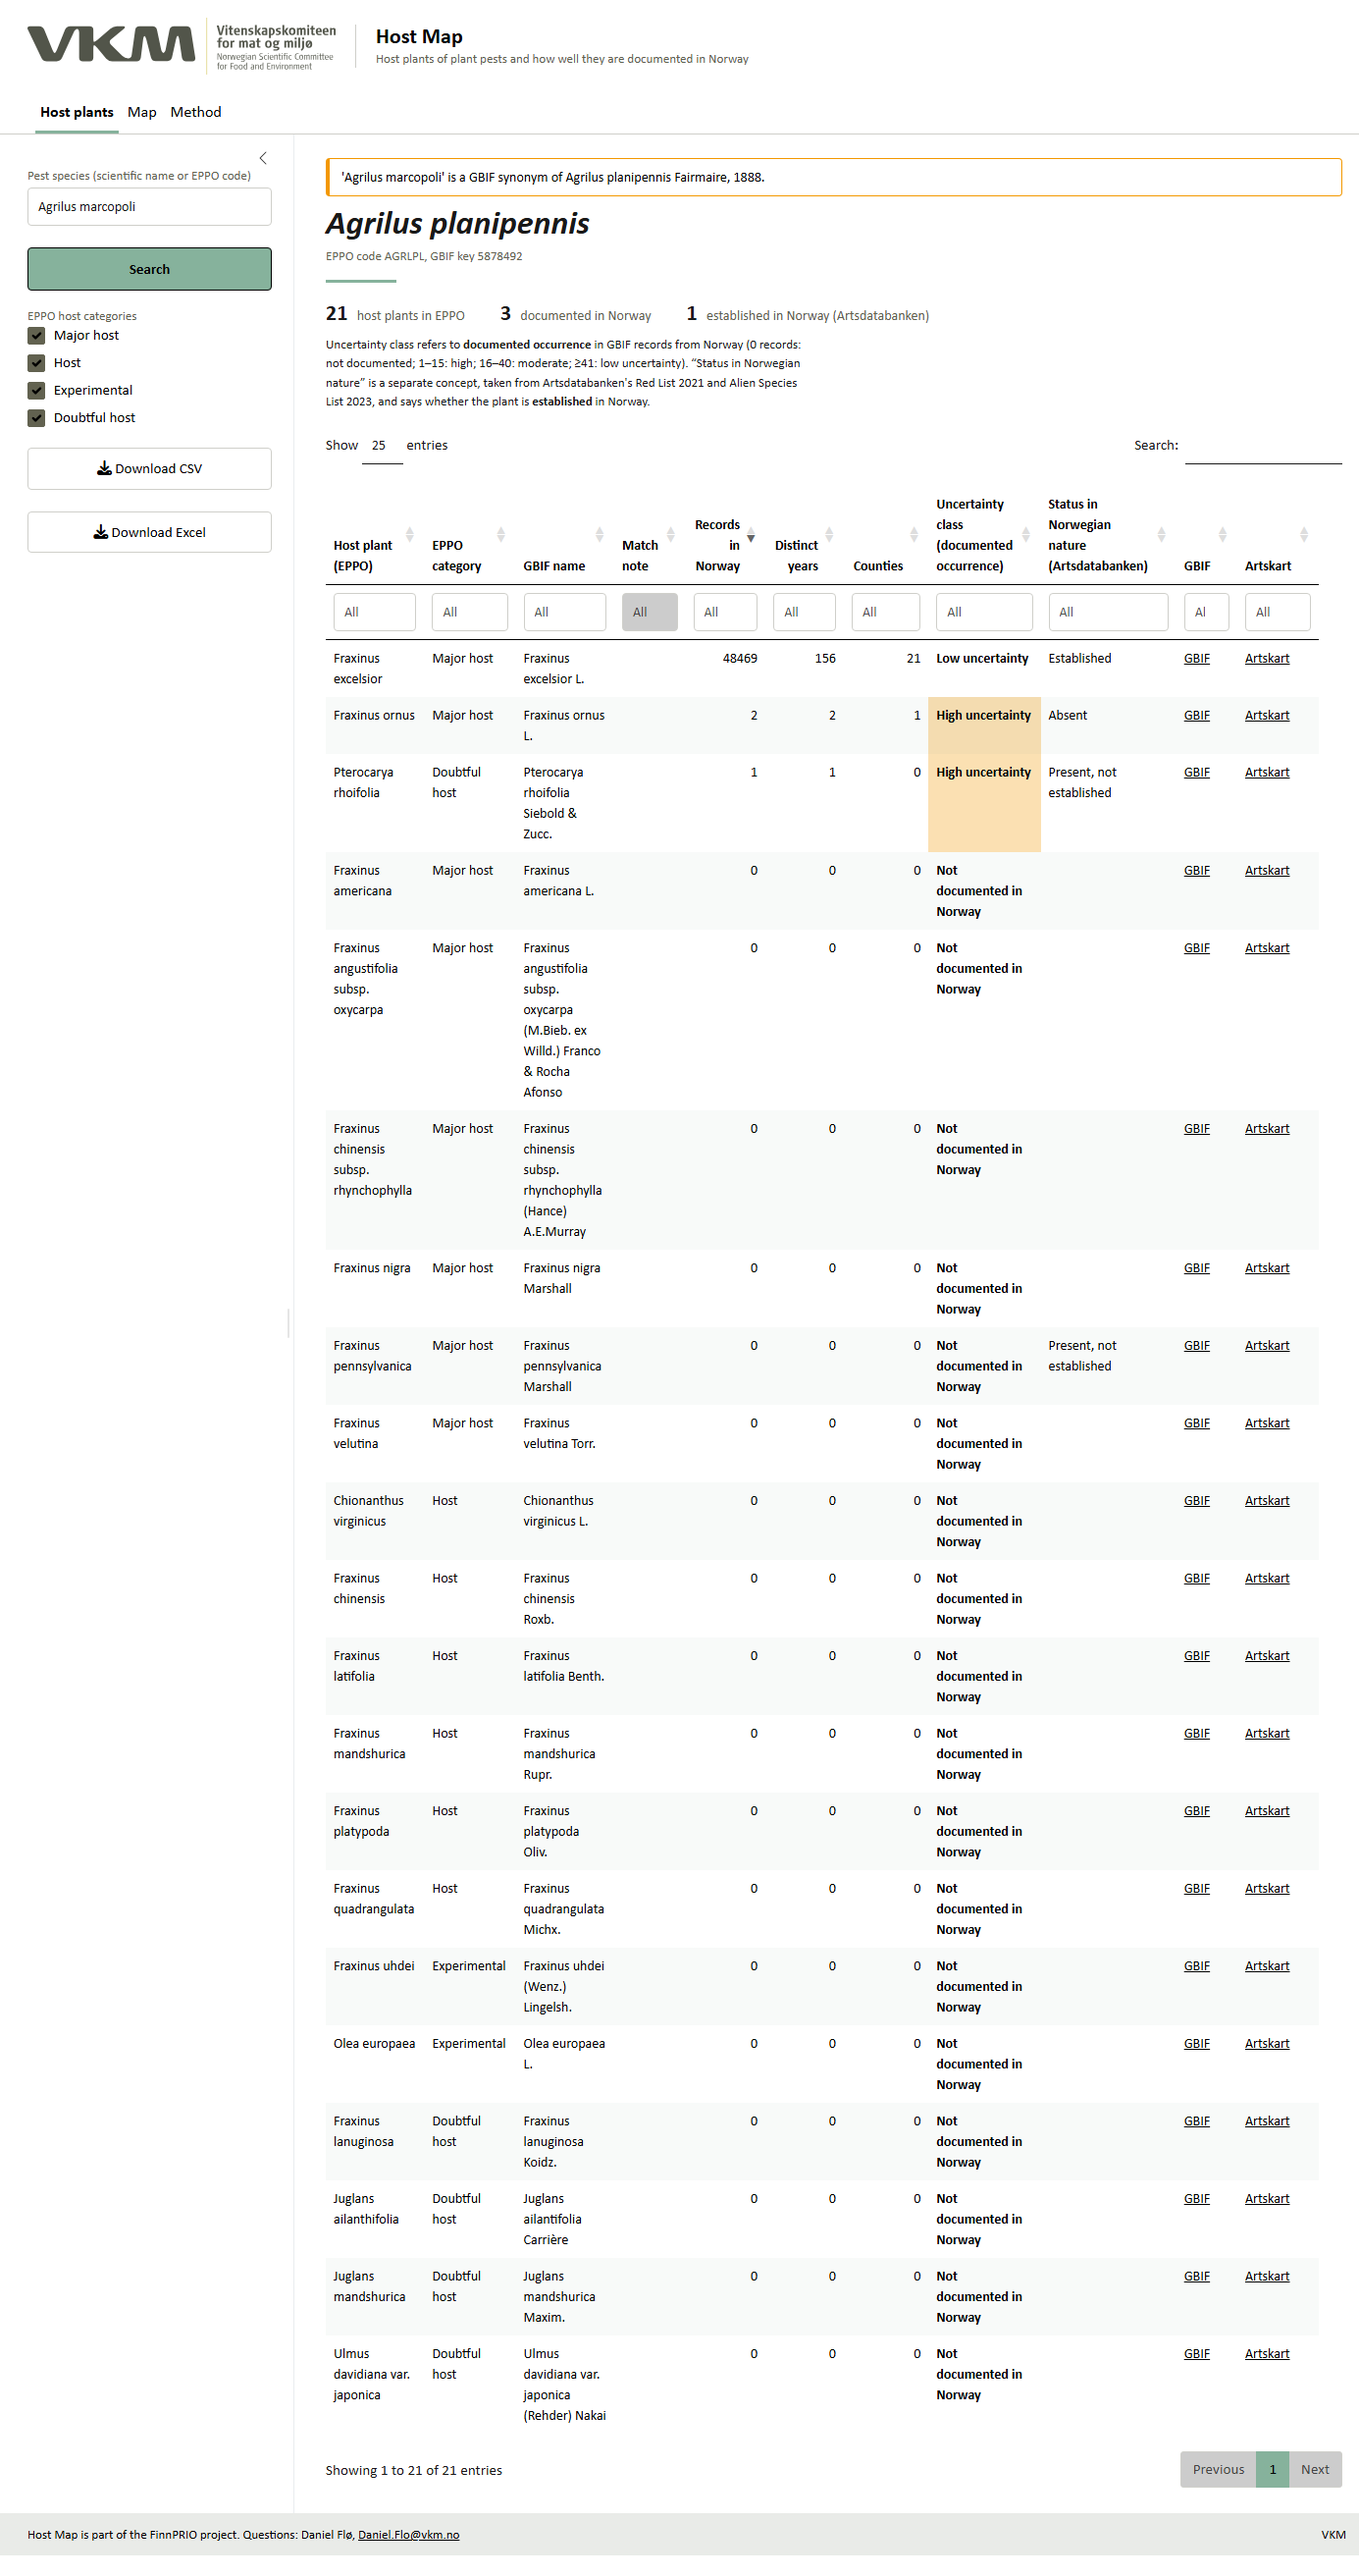
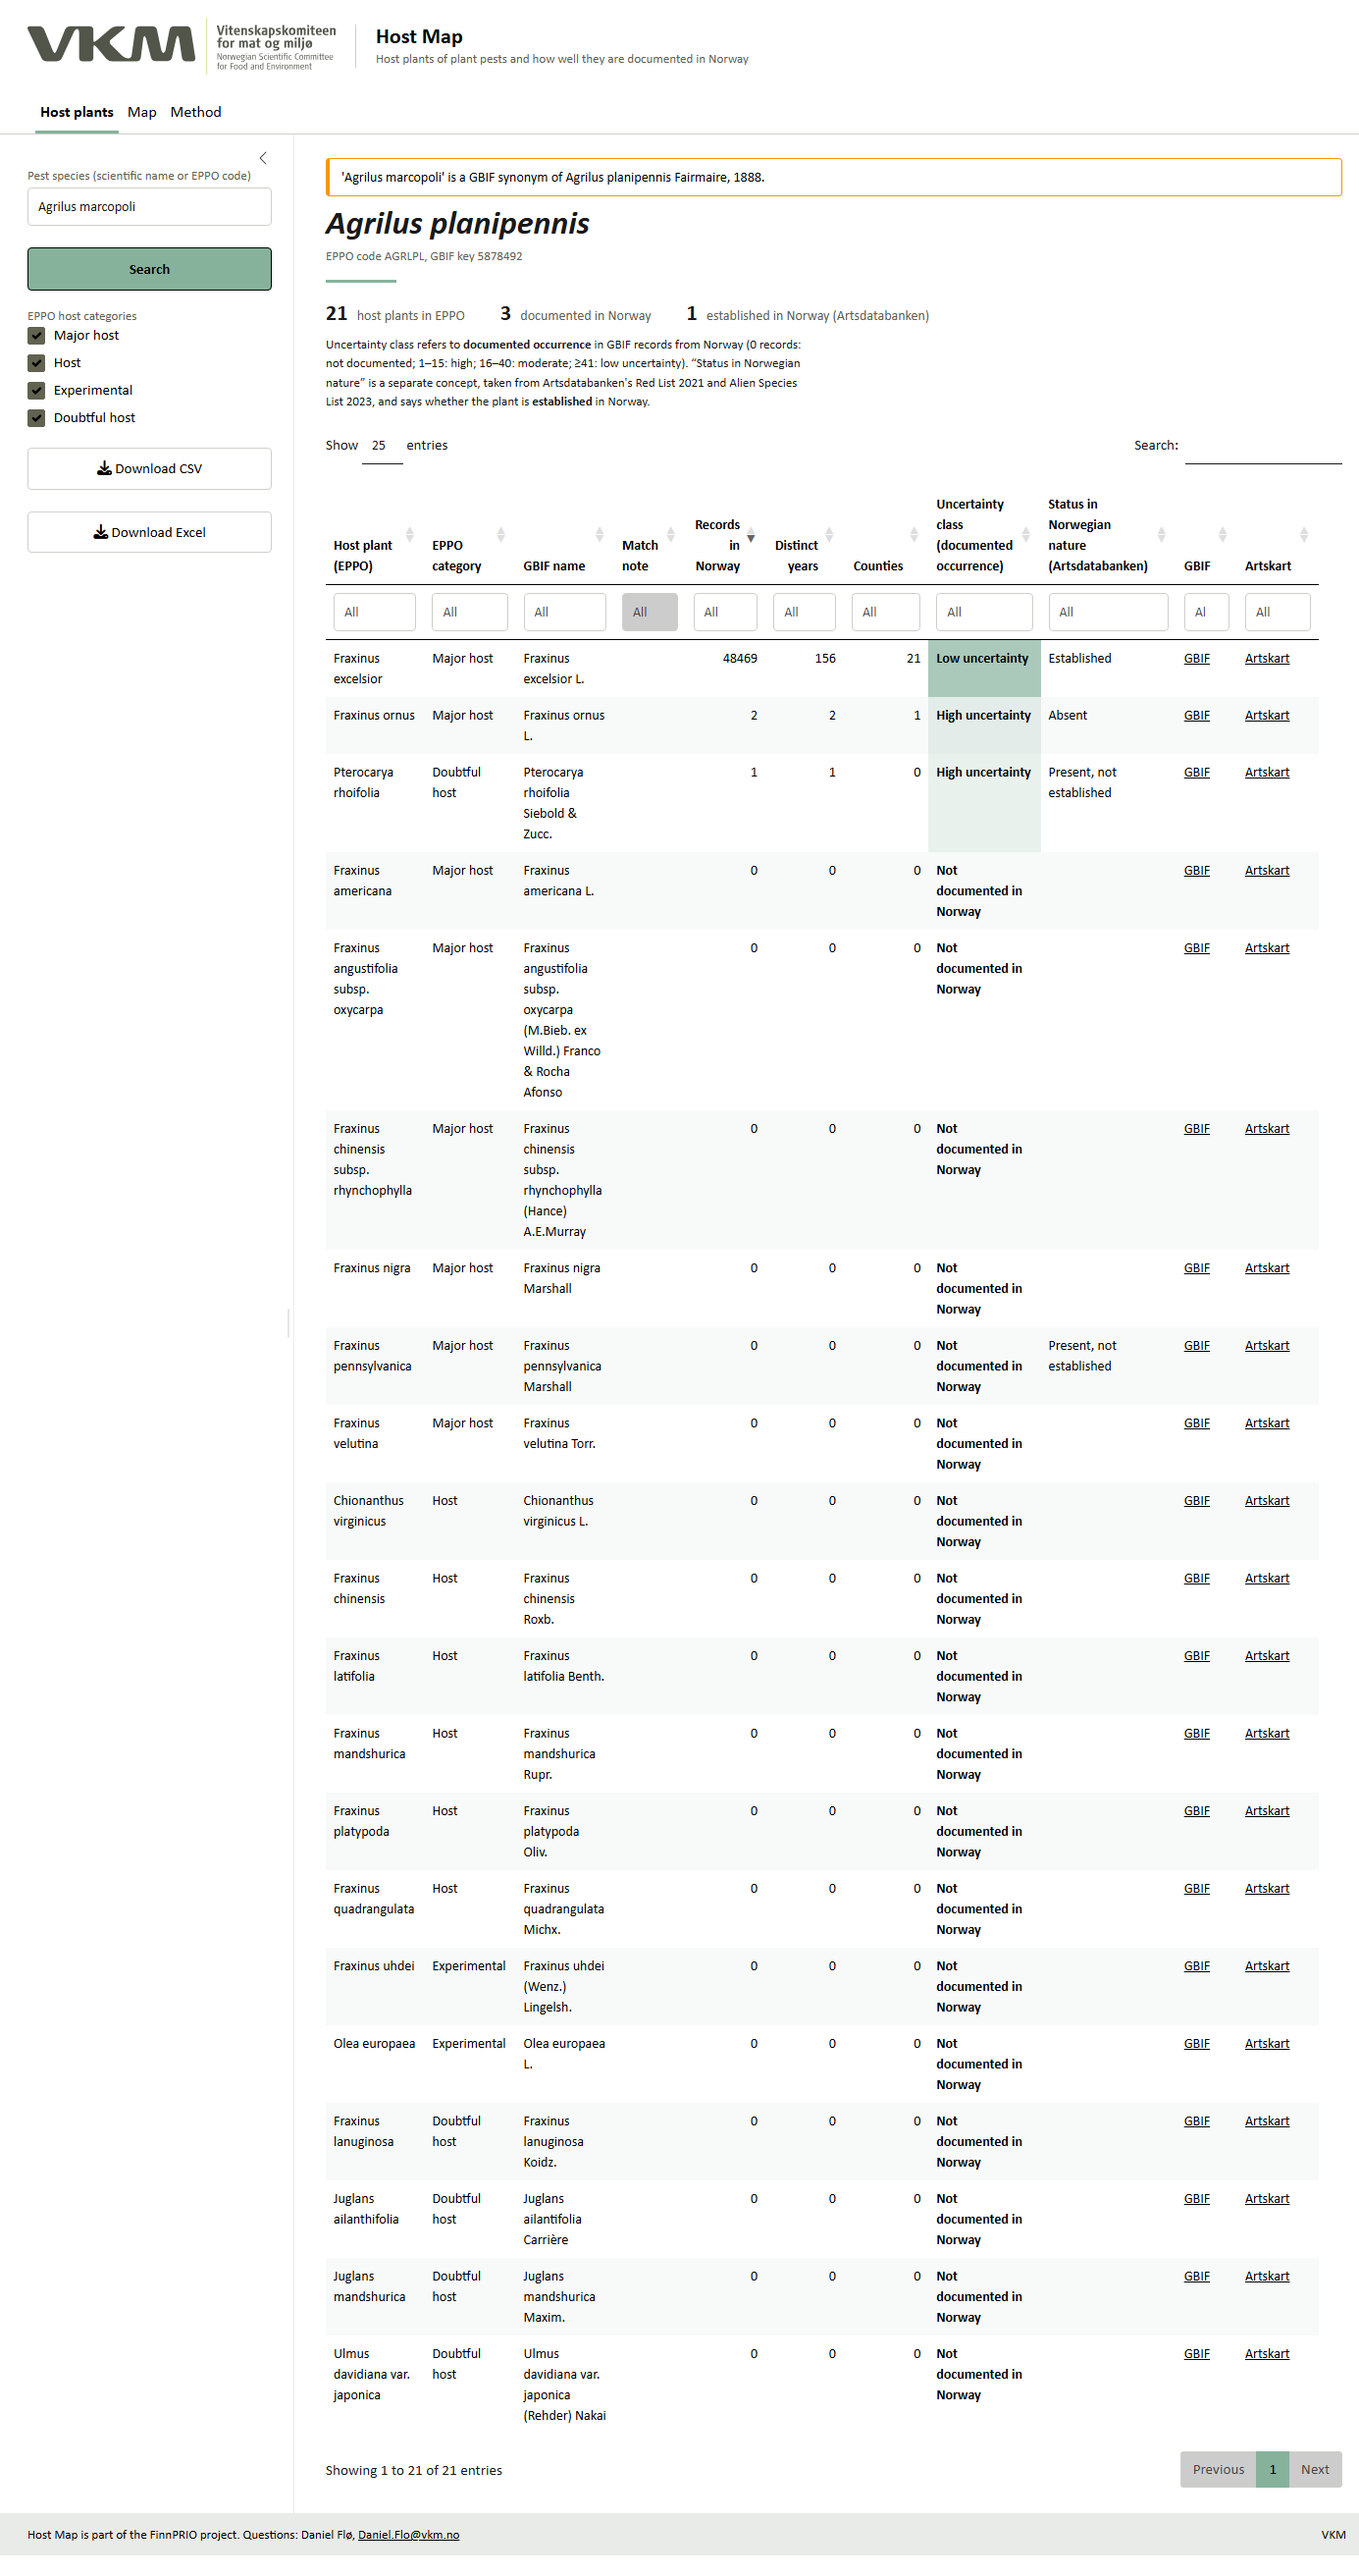
Uncertainty column as one green gradient (stronger green = better documented)
Uses VKM green and its 30 % tint only; orange is now reserved for warnings.

Changed region(s): [[0.683, 0.25, 0.7762, 0.3438]]

diff --git a/3_metadata/vignette.md b/3_metadata/vignette.md
@@ -29,7 +29,7 @@ Each row is one EPPO host. The columns:
 | **Status in Norwegian nature** | Artsdatabanken's assessment of whether it is **established** |
 | GBIF, Artskart | Links to the records |
 
-The uncertainty classes are calibrated against Artsdatabanken's lists (see `5_outputs/REPORT.md`):
+The uncertainty column is shaded as one green gradient: the stronger the green, the better documented the host is in Norway. The classes are calibrated against Artsdatabanken's lists (see `5_outputs/REPORT.md`):
 
 | Class | Records | Of such hosts, share actually absent from Norway |
 |---|---|---|
